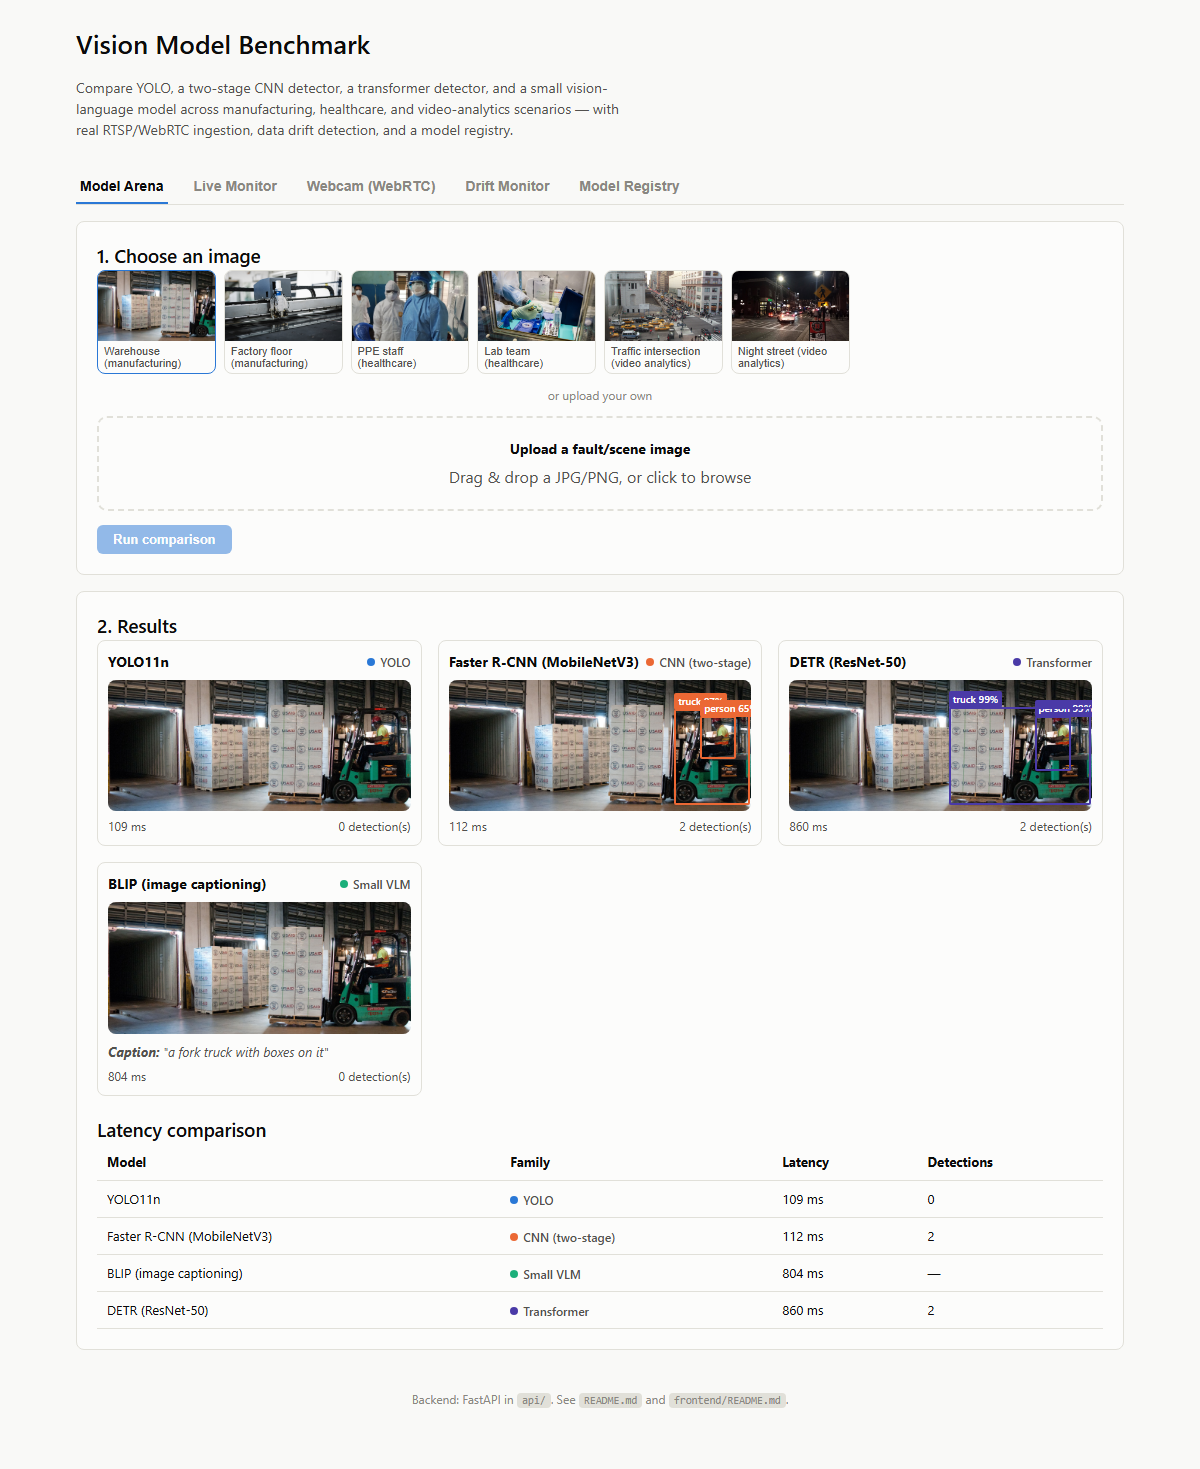
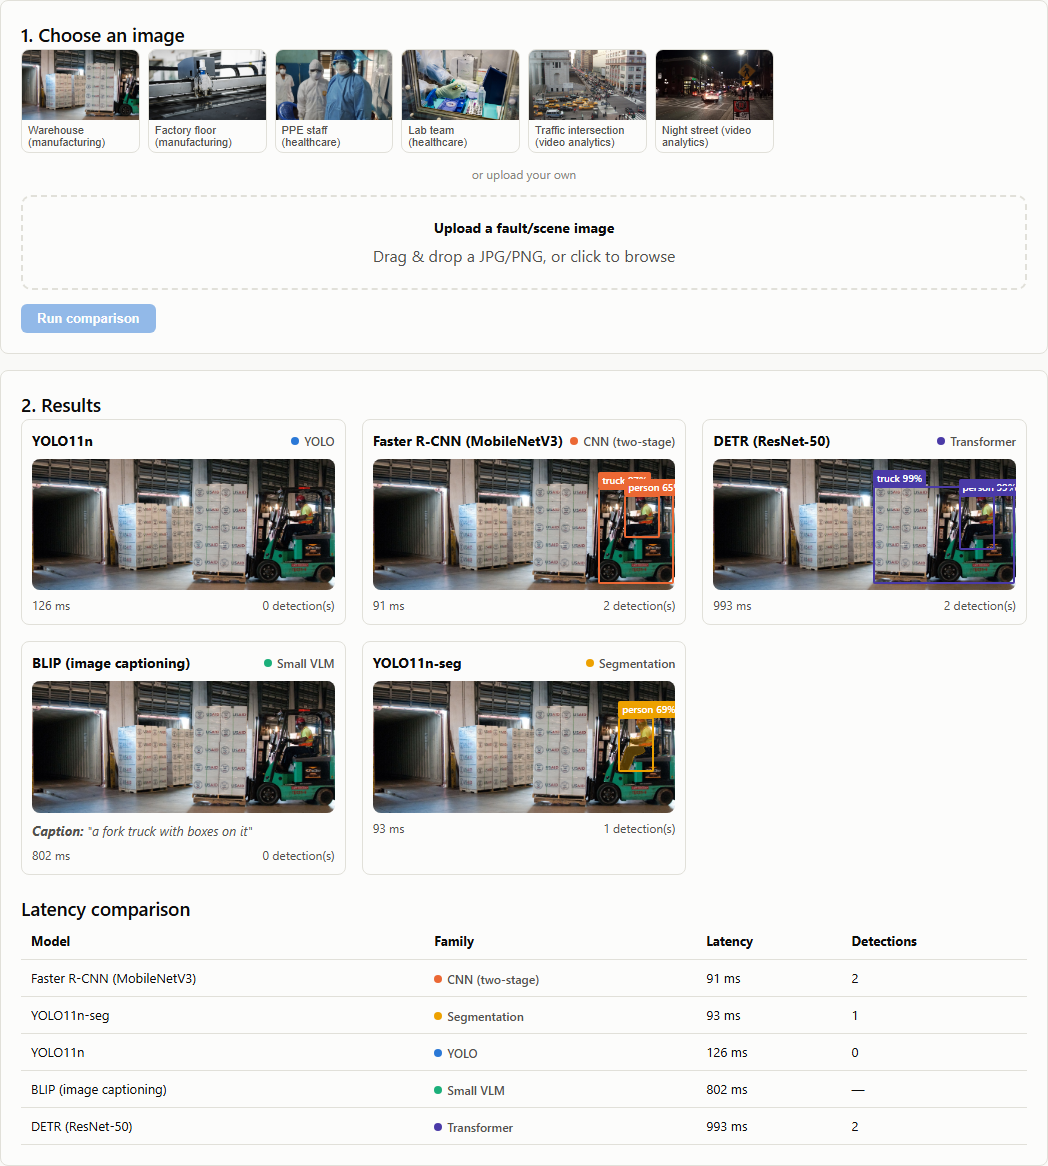
Add a 5th model: YOLO11n-seg for instance segmentation
Adds an instance-segmentation entry (api/models/yolo_seg_model.py) to the
comparison, extending Detection with an optional per-object polygon mask
and PredictionResult's family with "segmentation". The Arena renders each
mask as a semi-transparent SVG polygon overlay alongside the existing
box overlays, so it's visually obvious a mask hugs the actual object
outline rather than a rectangle around it.

Verified end-to-end: the model downloads and runs cleanly, produces real
polygon masks on a sample photo, renders correctly in the Arena UI (both
native dev and the built Docker Compose stack), and the smoke-test suite
picks it up automatically via the existing MODEL_CLASSES parametrization.
Regenerated the README's Arena and Drift screenshots against the real
running app to reflect the 5-model comparison and the webhook history UI.

diff --git a/frontend/src/components/DetectionOverlay.tsx b/frontend/src/components/DetectionOverlay.tsx
@@ -11,15 +11,43 @@ const FAMILY_COLOR: Record<string, string> = {
   cnn: "var(--family-cnn)",
   transformer: "var(--family-transformer)",
   vlm: "var(--family-vlm)",
+  segmentation: "var(--family-segmentation)",
 };
 
 export function DetectionOverlay({ imageUrl, result }: DetectionOverlayProps) {
   const color = FAMILY_COLOR[result.family];
+  const hasMasks = result.detections.some((d) => d.mask && d.mask.length > 0);
 
   return (
     <div className="detection-overlay">
       <div className="detection-overlay-frame" style={{ aspectRatio: `${result.image_width} / ${result.image_height}` }}>
         <img src={imageUrl} alt="" />
+        {hasMasks && (
+          // Pixel-space viewBox with preserveAspectRatio="none" maps 1:1
+          // onto the percentage-based boxes below, since the frame's own
+          // aspect-ratio is locked to the image's -- no separate coordinate
+          // scaling needed.
+          <svg
+            className="detection-mask-layer"
+            viewBox={`0 0 ${result.image_width} ${result.image_height}`}
+            preserveAspectRatio="none"
+          >
+            {result.detections.map(
+              (det, i) =>
+                det.mask &&
+                det.mask.length > 0 && (
+                  <polygon
+                    key={i}
+                    points={det.mask.map(([x, y]) => `${x},${y}`).join(" ")}
+                    fill={color}
+                    fillOpacity={0.35}
+                    stroke={color}
+                    strokeWidth={2}
+                  />
+                )
+            )}
+          </svg>
+        )}
         {result.detections.map((det, i) => {
           const [x1, y1, x2, y2] = det.box;
           const left = (x1 / result.image_width) * 100;

diff --git a/frontend/src/App.tsx b/frontend/src/App.tsx
@@ -42,10 +42,11 @@ export default function App() {
       <header className="page-header">
         <h1>Vision Model Benchmark</h1>
         <p className="subtitle">
-          Compare YOLO, a two-stage CNN detector, a transformer detector, and a
-          small vision-language model across manufacturing, healthcare, and
-          video-analytics scenarios — with real RTSP/WebRTC ingestion, data
-          drift detection, and a model registry.
+          Compare YOLO, a two-stage CNN detector, a transformer detector, a
+          small vision-language model, and an instance-segmentation model
+          across manufacturing, healthcare, and video-analytics scenarios —
+          with real RTSP/WebRTC ingestion, data drift detection, and a model
+          registry.
         </p>
       </header>
 
@@ -66,7 +67,7 @@ export default function App() {
       </nav>
 
       <main>
-        {tab === "arena" && <ArenaPage />}
+        {tab === "arena" && <ArenaPage modelCount={models.length} />}
         {tab === "live" && <LiveMonitorPage models={models} />}
         {tab === "webcam" && <WebcamPage models={models} />}
         {tab === "drift" && <DriftPage />}

diff --git a/frontend/src/pages/ArenaPage.tsx b/frontend/src/pages/ArenaPage.tsx
@@ -15,7 +15,11 @@ const SAMPLE_IMAGES = [
   { path: "video_analytics/street_2.jpg", label: "Night street (video analytics)" },
 ];
 
-export function ArenaPage() {
+interface ArenaPageProps {
+  modelCount: number;
+}
+
+export function ArenaPage({ modelCount }: ArenaPageProps) {
   const [file, setFile] = useState<File | null>(null);
   const [previewUrl, setPreviewUrl] = useState<string | null>(null);
   const [loading, setLoading] = useState(false);
@@ -69,7 +73,7 @@ export function ArenaPage() {
         <p className="or-divider">or upload your own</p>
         <ImageUploader onFileSelected={setFile} disabled={loading} label="Upload a fault/scene image" />
         <button className="run-button" onClick={runComparison} disabled={!file || loading}>
-          {loading ? "Running all 4 models..." : "Run comparison"}
+          {loading ? `Running all ${modelCount || ""} models...` : "Run comparison"}
         </button>
         {error && <p className="error">{error}</p>}
       </section>

diff --git a/frontend/src/index.css b/frontend/src/index.css
@@ -14,11 +14,12 @@
   --status-warning: #fab219;
   --status-critical: #d03b3b;
 
-  /* Categorical slots for the 4 model families -- fixed order, never cycled */
+  /* Categorical slots for the 5 model families -- fixed order, never cycled */
   --family-yolo: #2a78d6;
   --family-cnn: #eb6834;
   --family-transformer: #4a3aa7;
   --family-vlm: #1baf7a;
+  --family-segmentation: #eda100;
 
   font: 16px/1.5 system-ui, -apple-system, "Segoe UI", sans-serif;
   color: var(--text-primary);
@@ -46,6 +47,7 @@
     --family-cnn: #d95926;
     --family-transformer: #9085e9;
     --family-vlm: #199e70;
+    --family-segmentation: #c98500;
   }
 }
 

diff --git a/frontend/src/types.ts b/frontend/src/types.ts
@@ -2,12 +2,13 @@
 // api/drift/stats.py field-for-field so the wire format and these types
 // never drift out of sync silently.
 
-export type ModelFamily = "yolo" | "cnn" | "transformer" | "vlm";
+export type ModelFamily = "yolo" | "cnn" | "transformer" | "vlm" | "segmentation";
 
 export interface Detection {
   label: string;
   confidence: number;
   box: [number, number, number, number];
+  mask: [number, number][] | null;
 }
 
 export interface PredictionResult {

diff --git a/frontend/src/components/FamilyBadge.tsx b/frontend/src/components/FamilyBadge.tsx
@@ -6,6 +6,7 @@ const FAMILY_LABEL: Record<ModelFamily, string> = {
   cnn: "CNN (two-stage)",
   transformer: "Transformer",
   vlm: "Small VLM",
+  segmentation: "Segmentation",
 };
 
 export function FamilyBadge({ family }: { family: ModelFamily }) {

diff --git a/frontend/src/components/DetectionOverlay.css b/frontend/src/components/DetectionOverlay.css
@@ -13,6 +13,14 @@
   display: block;
 }
 
+.detection-mask-layer {
+  position: absolute;
+  inset: 0;
+  width: 100%;
+  height: 100%;
+  pointer-events: none;
+}
+
 .detection-box {
   position: absolute;
   border: 2px solid;

diff --git a/frontend/src/components/FamilyBadge.css b/frontend/src/components/FamilyBadge.css
@@ -29,3 +29,7 @@
 .family-vlm .family-dot {
   background: var(--family-vlm);
 }
+
+.family-segmentation .family-dot {
+  background: var(--family-segmentation);
+}

diff --git a/api/models/yolo_seg_model.py b/api/models/yolo_seg_model.py
@@ -1,0 +1,61 @@
+"""Segmentation: same YOLO11 family as the detector, but the "instance
+segmentation" head -- it predicts a pixel-accurate mask per object instead
+of just a box. Included as a 5th, distinct comparison point: the other 4
+models all answer "where is a rough rectangle around this object," which
+is often not what a real inspection task needs (e.g. measuring the exact
+area of a corrosion patch or a defect needs its actual outline, not a box
+that also covers background pixels).
+"""
+import time
+
+from ultralytics import YOLO
+
+from .base import Detection, PredictionResult
+
+
+class YoloSegModel:
+    name = "YOLO11n-seg"
+    family = "segmentation"
+    description = (
+        "Same single-stage YOLO11 architecture, with an added mask head: "
+        "predicts a pixel-accurate polygon outline per object, not just a "
+        "bounding box."
+    )
+    approx_download_mb = 7
+
+    def __init__(self, weights: str = "yolo11n-seg.pt", confidence_threshold: float = 0.5):
+        self._model = YOLO(weights)
+        self._confidence_threshold = confidence_threshold
+
+    def predict(self, image) -> PredictionResult:
+        width, height = image.size
+        start = time.perf_counter()
+        results = self._model(image, conf=self._confidence_threshold, verbose=False)
+        latency_ms = (time.perf_counter() - start) * 1000
+
+        detections = []
+        result = results[0]
+        # `masks.xy` is already rescaled to the original image's pixel
+        # coordinates, in the same order as `boxes` -- no separate
+        # coordinate mapping needed. A blank/no-detection image has
+        # `result.masks is None`, not an empty list.
+        polygons = result.masks.xy if result.masks is not None else []
+        for box, polygon in zip(result.boxes, polygons):
+            x1, y1, x2, y2 = [float(v) for v in box.xyxy[0]]
+            detections.append(
+                Detection(
+                    label=self._model.names[int(box.cls)],
+                    confidence=float(box.conf),
+                    box=(x1, y1, x2, y2),
+                    mask=[(float(x), float(y)) for x, y in polygon],
+                )
+            )
+
+        return PredictionResult(
+            model_name=self.name,
+            family=self.family,
+            latency_ms=latency_ms,
+            image_width=width,
+            image_height=height,
+            detections=detections,
+        )

diff --git a/scripts/seed_registry.py b/scripts/seed_registry.py
@@ -45,12 +45,21 @@ def main():
         avg_latency = measure_latency_ms(model, image)
         print(f"  measured latency: {avg_latency:.1f} ms (avg of 3 runs)")
 
+        framework = {
+            "yolo": "ultralytics",
+            "segmentation": "ultralytics",
+            "cnn": "torchvision",
+        }.get(model.family, "transformers")
+        task_type = {
+            "vlm": "image-captioning",
+            "segmentation": "instance-segmentation",
+        }.get(model.family, "object-detection")
         payload = {
             "name": model.name,
             "version": "1.0.0",
             "family": model.family,
-            "framework": "ultralytics" if model.family == "yolo" else "torchvision" if model.family == "cnn" else "transformers",
-            "task_type": "object-detection" if model.family != "vlm" else "image-captioning",
+            "framework": framework,
+            "task_type": task_type,
             "approx_download_mb": model.approx_download_mb,
             "metrics": {"latency_ms": round(avg_latency, 1)},
         }

diff --git a/api/models/base.py b/api/models/base.py
@@ -10,15 +10,19 @@ from typing import Literal, Protocol
 
 from pydantic import BaseModel
 
-ModelFamily = Literal["yolo", "cnn", "transformer", "vlm"]
+ModelFamily = Literal["yolo", "cnn", "transformer", "vlm", "segmentation"]
 
 
 class Detection(BaseModel):
-    """One detected object. `box` is (x1, y1, x2, y2) in pixel coordinates."""
+    """One detected object. `box` is (x1, y1, x2, y2) in pixel coordinates.
+    `mask`, when set, is the instance's outline as a polygon -- a list of
+    (x, y) pixel-coordinate points -- for models that predict a pixel mask
+    rather than (or in addition to) a box."""
 
     label: str
     confidence: float
     box: tuple[float, float, float, float]
+    mask: list[tuple[float, float]] | None = None
 
 
 class PredictionResult(BaseModel):

diff --git a/api/models/loader.py b/api/models/loader.py
@@ -10,12 +10,14 @@ from .caption_model import CaptionModel
 from .detr_model import DetrModel
 from .fasterrcnn_model import FasterRCNNModel
 from .yolo_model import YoloModel
+from .yolo_seg_model import YoloSegModel
 
 MODEL_CLASSES: list[type[VisionModel]] = [
     YoloModel,
     FasterRCNNModel,
     DetrModel,
     CaptionModel,
+    YoloSegModel,
 ]
 
 
